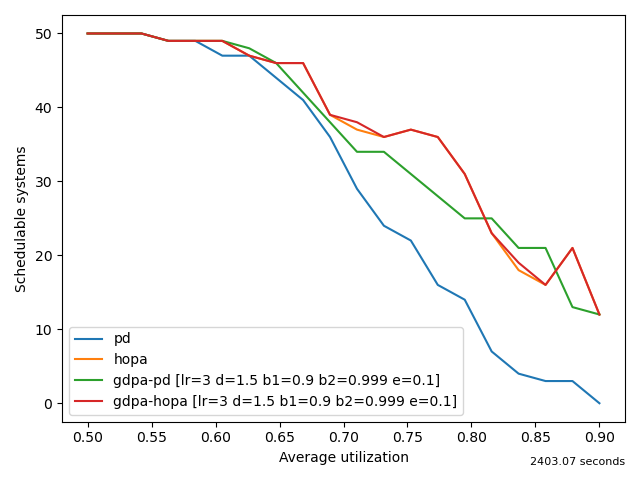
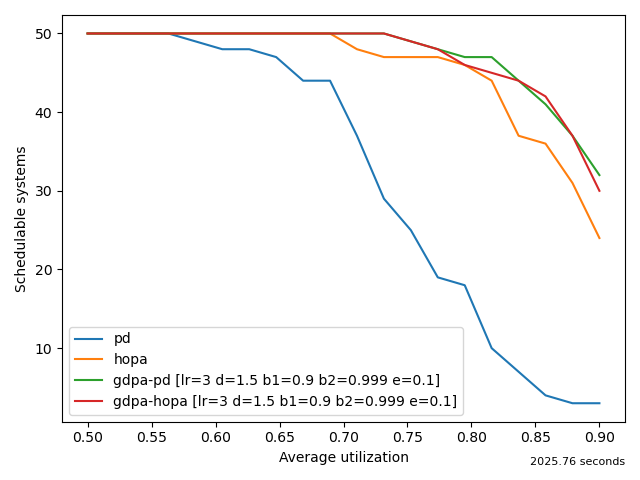
update

diff --git a/gradient_descent.py b/gradient_descent.py
@@ -77,22 +77,22 @@ def weighted_invslack(system) -> float:
     return num/sum(coeffs)
 
 
-def calculate_proxy_cost(system, proxy, cost_fn) -> float:
+def calculate_cost(system, analysis, cost_fn) -> float:
     save_wcrt(system)
-    proxy.apply(system)
+    analysis.apply(system)
     cost = cost_fn(system)
     restore_wcrt(system)
     return cost
 
 
-def calculate_gradients(system, proxy, cost_fn, delta=0.01) -> [float]:
+def calculate_gradients(system, analysis, cost_fn, delta=0.01) -> [float]:
     coeffs = []
     for task in system.tasks:
         priority = task.priority
         task.priority = priority - delta
-        a = calculate_proxy_cost(system, proxy, cost_fn)
+        a = calculate_cost(system, analysis, cost_fn)
         task.priority = priority + delta
-        b = calculate_proxy_cost(system, proxy, cost_fn)
+        b = calculate_cost(system, analysis, cost_fn)
         task.priority = priority
         diff = (b-a) / (2*delta)
         coeffs.append(diff)
@@ -178,10 +178,9 @@ class Adam:
 
 
 class GDPA:
-    def __init__(self, proxy, iterations=100, analysis=None, over_iterations=0, delta=1,
-                 optimizer=Adam(), initial=PDAssignment(normalize=True), cost_fn=invslack, verbose=False,
-                 callback=None):
-        self.proxy = proxy
+    def __init__(self, iterations=100, analysis=None, over_iterations=0, delta=1,
+                 optimizer=Adam(), initial=PDAssignment(normalize=True), cost_fn=invslack,
+                 verbose=False, callback=None, vectorized=True):
         self.iterations = iterations if iterations > 0 else 1
         self.analysis = analysis
         self.initial = initial
@@ -190,19 +189,19 @@ class GDPA:
         self.over_iterations = over_iterations
         self.optimizer = optimizer
         self.delta = delta
-        self.callback=callback
+        self.callback = callback
+        self.vectorized = vectorized
 
     def _iteration_metrics(self, system):
         system.apply(self.analysis if self.analysis else self.proxy)
         cost = self.cost_fn(system)
-        proxy_cost = calculate_proxy_cost(system, proxy=self.proxy, cost_fn=self.cost_fn) if self.analysis else cost
         schedulable = system.is_schedulable() if self.analysis else None
         slack = system.slack if self.analysis else None
-        return cost, proxy_cost, schedulable, slack
+        return cost, schedulable, slack
 
     @staticmethod
-    def _print_iteration_metrics(iteration, cost, proxy_cost, min_cost, schedulable, slack, end="\n"):
-        msg = f"{iteration}: proxy={proxy_cost:.2f} [cost={cost:.2f}, best={min_cost:.2f}"
+    def _print_iteration_metrics(iteration, cost, min_cost, schedulable, slack, end="\n"):
+        msg = f"{iteration}: [cost={cost:.2f}, best={min_cost:.2f}"
         if slack is not None:
             msg += f", slack={slack:.2f}"
         if schedulable is not None:
@@ -217,14 +216,14 @@ class GDPA:
 
         # calculate initial metrics. Uses real analysis if available, proxy otherwise
         self.initial.apply(system)
-        cost, proxy_cost, schedulable, slack = self._iteration_metrics(system)
+        cost, schedulable, slack = self._iteration_metrics(system)
         min_cost = cost
 
         if self.callback:
             self.callback.apply(system)
 
         if self.verbose:
-            self._print_iteration_metrics(0, cost, proxy_cost, min_cost, schedulable, slack)
+            self._print_iteration_metrics(0, cost, min_cost, schedulable, slack)
 
         if schedulable:
             optimizing = True
@@ -237,7 +236,8 @@ class GDPA:
             # update priorities using gradient descent and the proxy analysis function
             delta = self.delta*avg_parameter_separation([task.priority for task in system.tasks])
             # coeffs = calculate_gradients(system, self.proxy, cost_fn=self.cost_fn, delta=delta)
-            coeffs = calculate_gradients_vector(system, delta=delta)
+            coeffs = calculate_gradients_vector(system, delta=delta) if self.vectorized else \
+                calculate_gradients(system, self.analysis, cost_fn=self.cost_fn, delta=delta)
 
             updates = self.optimizer.step(coeffs, i)
             for task, update in zip(tasks, updates):
@@ -245,7 +245,7 @@ class GDPA:
             normalize_priorities(system)
 
             # calculate current metrics. Uses real analysis if available, proxy otherwise
-            cost, proxy_cost, schedulable, slack = self._iteration_metrics(system)
+            cost, schedulable, slack = self._iteration_metrics(system)
             if cost < min_cost:
                 min_cost = cost
                 save_assignment(system)
@@ -254,7 +254,7 @@ class GDPA:
                 self.callback.apply(system)
 
             if self.verbose:
-                self._print_iteration_metrics(i, cost, proxy_cost, min_cost, schedulable, slack)
+                self._print_iteration_metrics(i, cost, min_cost, schedulable, slack)
 
             if schedulable:
                 optimizing = True

diff --git a/evaluation/gdpa_eval.py b/evaluation/gdpa_eval.py
@@ -12,7 +12,7 @@ import time
 import pandas as pd
 from functools import partial
 import matplotlib.pyplot as plt
-from mast.mast_wrapper import MastOffsetAnalysis, MastHolisticAnalysis
+from mast.mast_wrapper import MastOffsetAnalysis, MastHolisticAnalysis, MastOffsetPrecedenceAnalysis
 
 
 lrs = [3]
@@ -110,7 +110,7 @@ def achieves_schedulability(system, assignment, analysis) -> bool:
 
 def get_assignments(lrs, deltas, beta1s, beta2s, epsilons):
     # analysis = HolisticAnalyis(reset=False, limit_factor=5)
-    analysis = MastOffsetAnalysis(limit_factor=5)
+    analysis = MastOffsetPrecedenceAnalysis(limit_factor=1)
     params = itertools.product(lrs, deltas, beta1s, beta2s, epsilons)
 
     pd = PDAssignment(normalize=True)
@@ -126,13 +126,13 @@ def get_assignments(lrs, deltas, beta1s, beta2s, epsilons):
         # assigs.append((f"gdpa-r [lr={lr} d={delta} b1={beta1} b2={beta2} e={epsilon}]", assig))
         #
         # GDPA PD
-        assig = GDPA(proxy=analysis, verbose=False, initial=pd,
+        assig = GDPA(verbose=False, initial=pd,
                      iterations=200, cost_fn=invslack, analysis=analysis, delta=delta,
                      optimizer=Adam(lr=lr, beta1=beta1, beta2=beta2, epsilon=epsilon))
         assigs.append((f"gdpa-pd [lr={lr} d={delta} b1={beta1} b2={beta2} e={epsilon}]", assig))
 
         # GDPA HOPA
-        assig = GDPA(proxy=analysis, verbose=False, initial=hopa,
+        assig = GDPA(verbose=False, initial=hopa,
                      iterations=200, cost_fn=invslack, analysis=analysis, delta=delta,
                      optimizer=Adam(lr=lr, beta1=beta1, beta2=beta2, epsilon=epsilon))
         assigs.append((f"gdpa-hopa [lr={lr} d={delta} b1={beta1} b2={beta2} e={epsilon}]", assig))
@@ -157,8 +157,8 @@ def get_assignments(lrs, deltas, beta1s, beta2s, epsilons):
 
 
 def get_sched_test():
-    return HolisticAnalyis(limit_factor=1)
+    return MastOffsetPrecedenceAnalysis(limit_factor=1)
 
 
 if __name__ == '__main__':
-    parameters_comparison("medium-mast-offsets")
+    parameters_comparison("medium-mast-offsets_pr1")
